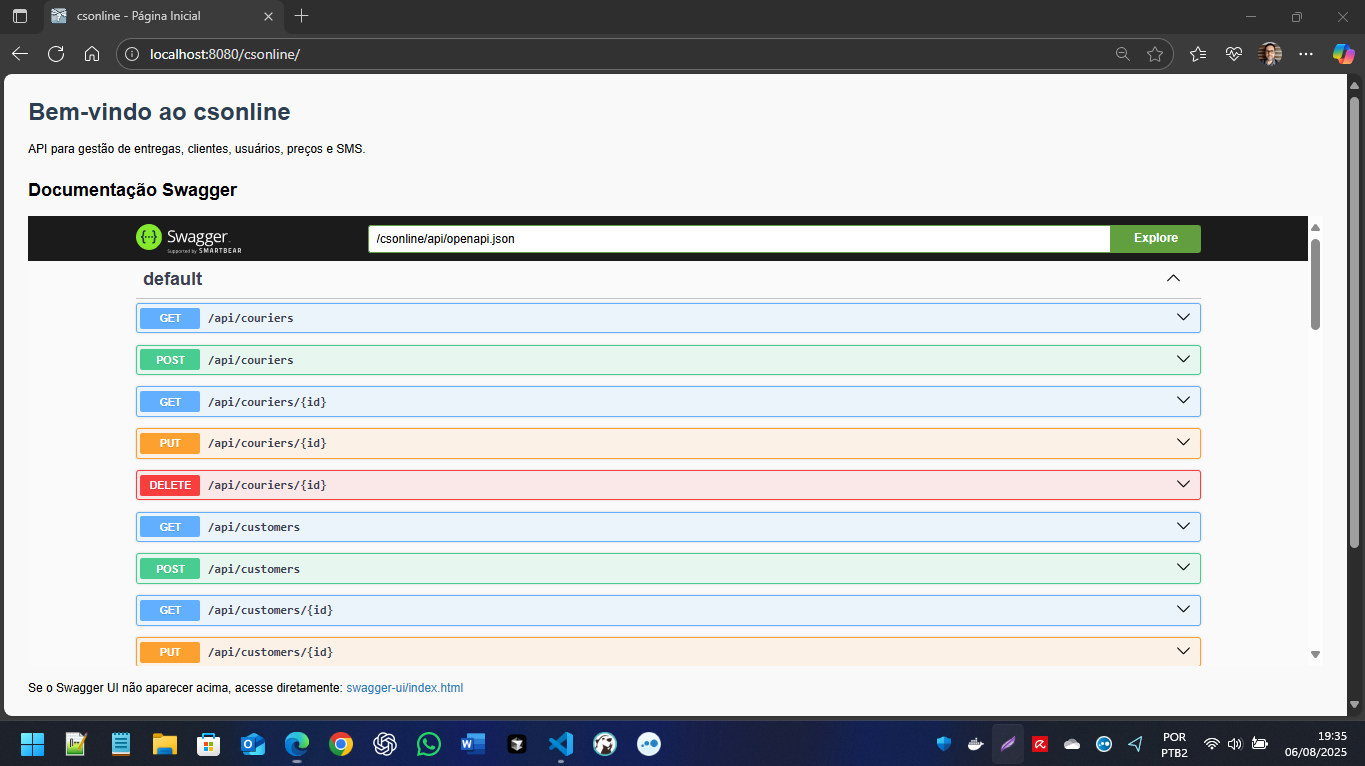
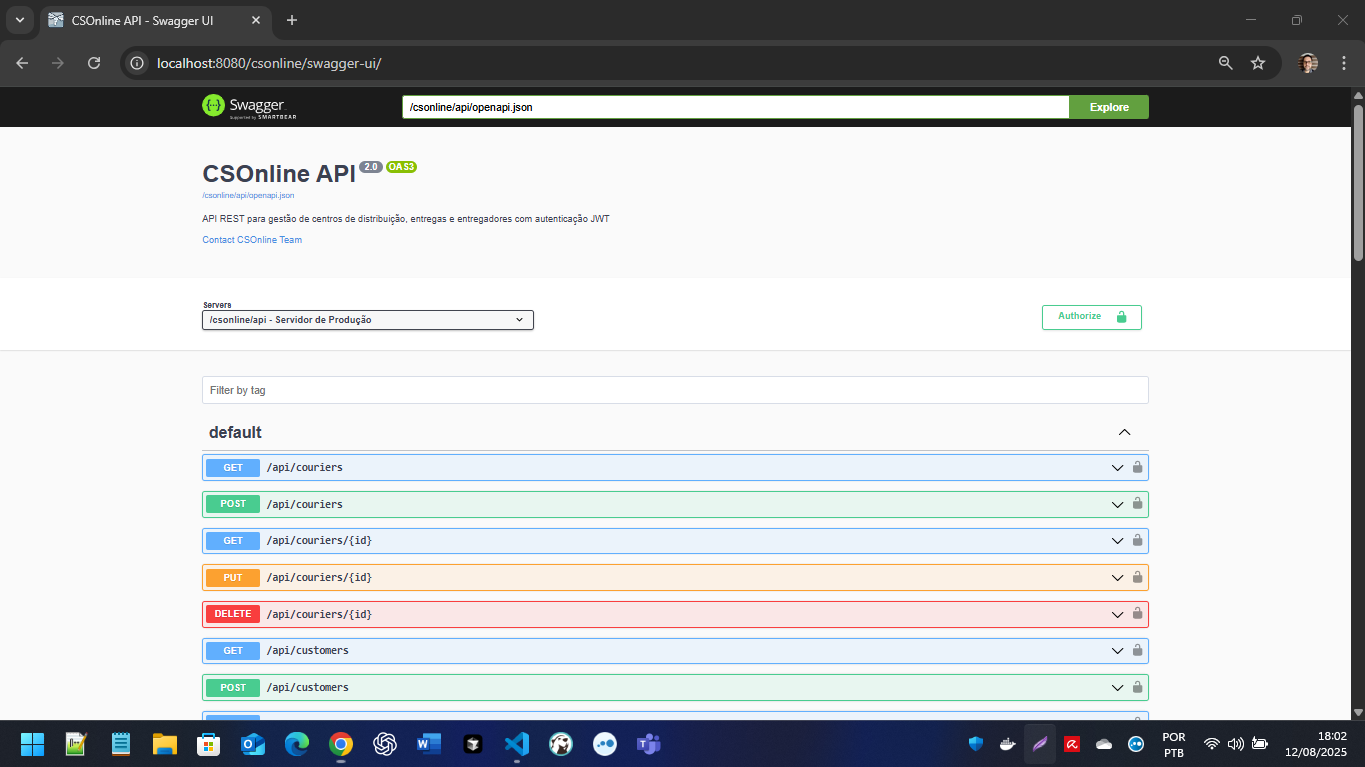
feat: add Swagger UI configuration and OpenAPI controller for API documentation

Changed region(s): [[0.0, 0.0, 1.0, 1.0], [0.7692, 0.3903, 0.8308, 0.4504], [0.1846, 0.0, 0.2154, 0.03]]

diff --git a/src/main/java/com/caracore/cso/config/SwaggerUIConfig.java b/src/main/java/com/caracore/cso/config/SwaggerUIConfig.java
@@ -1,0 +1,172 @@
+package com.caracore.cso.config;
+
+import jakarta.servlet.ServletContext;
+import jakarta.servlet.ServletException;
+import jakarta.servlet.ServletRegistration;
+import jakarta.servlet.annotation.WebListener;
+import jakarta.servlet.http.HttpServlet;
+import jakarta.servlet.http.HttpServletRequest;
+import jakarta.servlet.http.HttpServletResponse;
+import jakarta.servlet.ServletContextEvent;
+import jakarta.servlet.ServletContextListener;
+
+import java.io.IOException;
+import java.io.InputStream;
+import java.nio.charset.StandardCharsets;
+
+/**
+ * Configuração do Swagger UI para servir a interface web
+ * Serve o Swagger UI em /swagger-ui/
+ */
+@WebListener
+public class SwaggerUIConfig implements ServletContextListener {
+
+    @Override
+    public void contextInitialized(ServletContextEvent sce) {
+        ServletContext context = sce.getServletContext();
+        
+        // Registra o servlet do Swagger UI
+        ServletRegistration.Dynamic registration = context.addServlet("SwaggerUIServlet", new SwaggerUIServlet());
+        registration.addMapping("/swagger-ui/*");
+        registration.setLoadOnStartup(1);
+        
+        System.out.println("[SWAGGER] Swagger UI configurado em /swagger-ui/");
+    }
+
+    @Override
+    public void contextDestroyed(ServletContextEvent sce) {
+        // Cleanup se necessário
+    }
+    
+    /**
+     * Servlet customizado para servir o Swagger UI
+     */
+    public static class SwaggerUIServlet extends HttpServlet {
+        
+        @Override
+        protected void doGet(HttpServletRequest request, HttpServletResponse response) 
+                throws ServletException, IOException {
+            
+            String pathInfo = request.getPathInfo();
+            
+            // Se não especificou arquivo, serve nossa versão customizada diretamente
+            if (pathInfo == null || pathInfo.equals("/") || pathInfo.equals("")) {
+                serveCustomIndex(response, request);
+                return;
+            }
+            
+            // Remove a barra inicial
+            if (pathInfo.startsWith("/")) {
+                pathInfo = pathInfo.substring(1);
+            }
+            
+            // Se for index.html, sempre serve nossa versão customizada
+            if ("index.html".equals(pathInfo)) {
+                serveCustomIndex(response, request);
+                return;
+            }
+            
+            // Caminho do recurso no WebJar
+            String resourcePath = "/META-INF/resources/webjars/swagger-ui/4.15.5/" + pathInfo;
+            
+            // Tenta carregar o recurso
+            InputStream inputStream = getClass().getResourceAsStream(resourcePath);
+            
+            if (inputStream == null) {
+                response.sendError(HttpServletResponse.SC_NOT_FOUND);
+                return;
+            }
+            
+            // Define o content type baseado na extensão
+            String contentType = getContentType(pathInfo);
+            response.setContentType(contentType);
+            
+            // Copia o conteúdo do recurso para a resposta
+            byte[] buffer = new byte[8192];
+            int bytesRead;
+            while ((bytesRead = inputStream.read(buffer)) != -1) {
+                response.getOutputStream().write(buffer, 0, bytesRead);
+            }
+            
+            inputStream.close();
+        }
+        
+        private void serveCustomIndex(HttpServletResponse response, HttpServletRequest request) throws IOException {
+            response.setContentType("text/html;charset=UTF-8");
+            
+            String contextPath = request.getContextPath();
+            String openApiUrl = contextPath + "/api/openapi.json";
+            
+            String html = "<!DOCTYPE html>\n" +
+                "<html lang=\"pt-BR\">\n" +
+                "<head>\n" +
+                "    <meta charset=\"UTF-8\">\n" +
+                "    <title>CSOnline API - Swagger UI</title>\n" +
+                "    <link rel=\"stylesheet\" type=\"text/css\" href=\"swagger-ui.css\" />\n" +
+                "    <style>\n" +
+                "        html { box-sizing: border-box; overflow: -moz-scrollbars-vertical; overflow-y: scroll; }\n" +
+                "        *, *:before, *:after { box-sizing: inherit; }\n" +
+                "        body { margin:0; background: #fafafa; }\n" +
+                "        .swagger-ui .topbar { display: none; }\n" +
+                "    </style>\n" +
+                "</head>\n" +
+                "<body>\n" +
+                "    <div id=\"swagger-ui\"></div>\n" +
+                "    <script src=\"swagger-ui-bundle.js\"></script>\n" +
+                "    <script src=\"swagger-ui-standalone-preset.js\"></script>\n" +
+                "    <script>\n" +
+                "        console.log('Inicializando Swagger UI com URL:', '" + openApiUrl + "');\n" +
+                "        window.onload = function() {\n" +
+                "            try {\n" +
+                "                window.ui = SwaggerUIBundle({\n" +
+                "                    url: '" + openApiUrl + "',\n" +
+                "                    dom_id: '#swagger-ui',\n" +
+                "                    deepLinking: true,\n" +
+                "                    presets: [\n" +
+                "                        SwaggerUIBundle.presets.apis,\n" +
+                "                        SwaggerUIStandalonePreset\n" +
+                "                    ],\n" +
+                "                    plugins: [\n" +
+                "                        SwaggerUIBundle.plugins.DownloadUrl\n" +
+                "                    ],\n" +
+                "                    layout: \"StandaloneLayout\",\n" +
+                "                    defaultModelsExpandDepth: 1,\n" +
+                "                    defaultModelExpandDepth: 1,\n" +
+                "                    docExpansion: 'list',\n" +
+                "                    filter: true,\n" +
+                "                    showRequestHeaders: true,\n" +
+                "                    showCommonExtensions: true,\n" +
+                "                    tryItOutEnabled: true,\n" +
+                "                    validatorUrl: null,\n" +
+                "                    onComplete: function() {\n" +
+                "                        console.log('Swagger UI carregado com sucesso!');\n" +
+                "                    },\n" +
+                "                    onFailure: function(error) {\n" +
+                "                        console.error('Erro ao carregar Swagger UI:', error);\n" +
+                "                    }\n" +
+                "                });\n" +
+                "                console.log('Swagger UI inicializado:', window.ui);\n" +
+                "            } catch(error) {\n" +
+                "                console.error('Erro na inicialização:', error);\n" +
+                "                document.getElementById('swagger-ui').innerHTML = '<h3>Erro ao carregar Swagger UI</h3><p>Verifique o console para mais detalhes.</p>';\n" +
+                "            }\n" +
+                "        };\n" +
+                "    </script>\n" +
+                "</body>\n" +
+                "</html>";
+            
+            response.getWriter().write(html);
+        }
+        
+        private String getContentType(String fileName) {
+            if (fileName.endsWith(".css")) return "text/css";
+            if (fileName.endsWith(".js")) return "application/javascript";
+            if (fileName.endsWith(".png")) return "image/png";
+            if (fileName.endsWith(".jpg") || fileName.endsWith(".jpeg")) return "image/jpeg";
+            if (fileName.endsWith(".svg")) return "image/svg+xml";
+            if (fileName.endsWith(".html")) return "text/html;charset=UTF-8";
+            if (fileName.endsWith(".json")) return "application/json";
+            return "application/octet-stream";
+        }
+    }
+}

diff --git a/src/main/java/com/caracore/cso/controller/OpenApiController.java b/src/main/java/com/caracore/cso/controller/OpenApiController.java
@@ -1,0 +1,84 @@
+package com.caracore.cso.controller;
+
+import io.swagger.v3.oas.annotations.OpenAPIDefinition;
+import io.swagger.v3.oas.annotations.info.Info;
+import io.swagger.v3.oas.annotations.info.Contact;
+import io.swagger.v3.oas.annotations.security.SecurityScheme;
+import io.swagger.v3.oas.annotations.security.SecurityRequirement;
+import io.swagger.v3.oas.annotations.enums.SecuritySchemeType;
+import io.swagger.v3.oas.annotations.servers.Server;
+import io.swagger.v3.jaxrs2.integration.resources.OpenApiResource;
+
+import jakarta.ws.rs.GET;
+import jakarta.ws.rs.Path;
+import jakarta.ws.rs.Produces;
+import jakarta.ws.rs.core.MediaType;
+import jakarta.ws.rs.core.Response;
+
+/**
+ * Controller para servir a documentação OpenAPI
+ */
+@OpenAPIDefinition(
+    info = @Info(
+        title = "CSOnline API",
+        version = "2.0",
+        description = "API REST para gestão de centros de distribuição, entregas e entregadores com autenticação JWT",
+        contact = @Contact(
+            name = "CSOnline Team",
+            email = "contato@csonline.com"
+        )
+    ),
+    servers = {
+        @Server(url = "/csonline/api", description = "Servidor de Produção"),
+        @Server(url = "http://localhost:8080/csonline/api", description = "Servidor de Desenvolvimento")
+    },
+    security = @SecurityRequirement(name = "bearerAuth")
+)
+@SecurityScheme(
+    name = "bearerAuth",
+    type = SecuritySchemeType.HTTP,
+    scheme = "bearer",
+    bearerFormat = "JWT",
+    description = "Token JWT obtido através do endpoint /login"
+)
+@Path("/")
+public class OpenApiController {
+
+    @GET
+    @Path("/openapi.json")
+    @Produces(MediaType.APPLICATION_JSON)
+    public Response getOpenApiJson() {
+        try {
+            // Usa o OpenApiResource do Swagger para gerar o JSON
+            OpenApiResource openApiResource = new OpenApiResource();
+            return openApiResource.getOpenApi(
+                null, // headers
+                null, // uriInfo
+                "json" // type
+            );
+        } catch (Exception e) {
+            return Response.status(Response.Status.INTERNAL_SERVER_ERROR)
+                    .entity("{\"error\":\"Erro ao gerar OpenAPI JSON: " + e.getMessage() + "\"}")
+                    .build();
+        }
+    }
+
+    @GET
+    @Path("/openapi.yaml")
+    @Produces("application/yaml")
+    public Response getOpenApiYaml() {
+        try {
+            // Usa o OpenApiResource do Swagger para gerar o YAML
+            OpenApiResource openApiResource = new OpenApiResource();
+            return openApiResource.getOpenApi(
+                null, // headers
+                null, // uriInfo
+                "yaml" // type
+            );
+        } catch (Exception e) {
+            return Response.status(Response.Status.INTERNAL_SERVER_ERROR)
+                    .entity("error: \"Erro ao gerar OpenAPI YAML: " + e.getMessage() + "\"")
+                    .build();
+        }
+    }
+}

diff --git a/src/main/java/com/caracore/cso/config/OpenApiResourceConfig.java b/src/main/java/com/caracore/cso/config/OpenApiResourceConfig.java
@@ -14,6 +14,7 @@ import com.caracore.cso.controller.UserController;
 import com.caracore.cso.controller.SMSController;
 import com.caracore.cso.controller.LoginController;
 import com.caracore.cso.controller.PriceController;
+import com.caracore.cso.controller.OpenApiController;
 import com.caracore.cso.security.AuthorizationFilter;
 import com.caracore.cso.security.JwtAuthenticationFilter;
 import com.caracore.cso.security.CorsFilter;
@@ -37,6 +38,7 @@ public class OpenApiResourceConfig extends ResourceConfig {
         register(SMSController.class);
         register(LoginController.class);
         register(PriceController.class);
+        register(OpenApiController.class);
     // Registra filtros de segurança (JWT + Autorização + CORS)
     register(JwtAuthenticationFilter.class);
     register(AuthorizationFilter.class);

diff --git a/README.md b/README.md
@@ -205,7 +205,7 @@ sequenceDiagram
 - **Frontend SPA**: [http://localhost:5173](http://localhost:5173) (desenvolvimento com proxy JWT)
 - **Sistema Enterprise**: [http://localhost:8080/csonline/](http://localhost:8080/csonline/) *(login JWT obrigatório)*
 - **Login JWT**: [http://localhost:8080/csonline/api/login](http://localhost:8080/csonline/api/login) *(endpoint público)*
-- **Swagger UI**: [http://localhost:8080/csonline/swagger-ui/](http://localhost:8080/csonline/swagger-ui/)
+- **Swagger UI**: [http://localhost:8080/csonline/swagger-ui/index.html](http://localhost:8080/csonline/swagger-ui/index.html)
 - **APIs Protegidas**: `http://localhost:8080/csonline/api/*` *(Bearer Token obrigatório)*
 - **Health Check**: `http://localhost:8080/csonline/api/health` *(endpoint público)*
 
